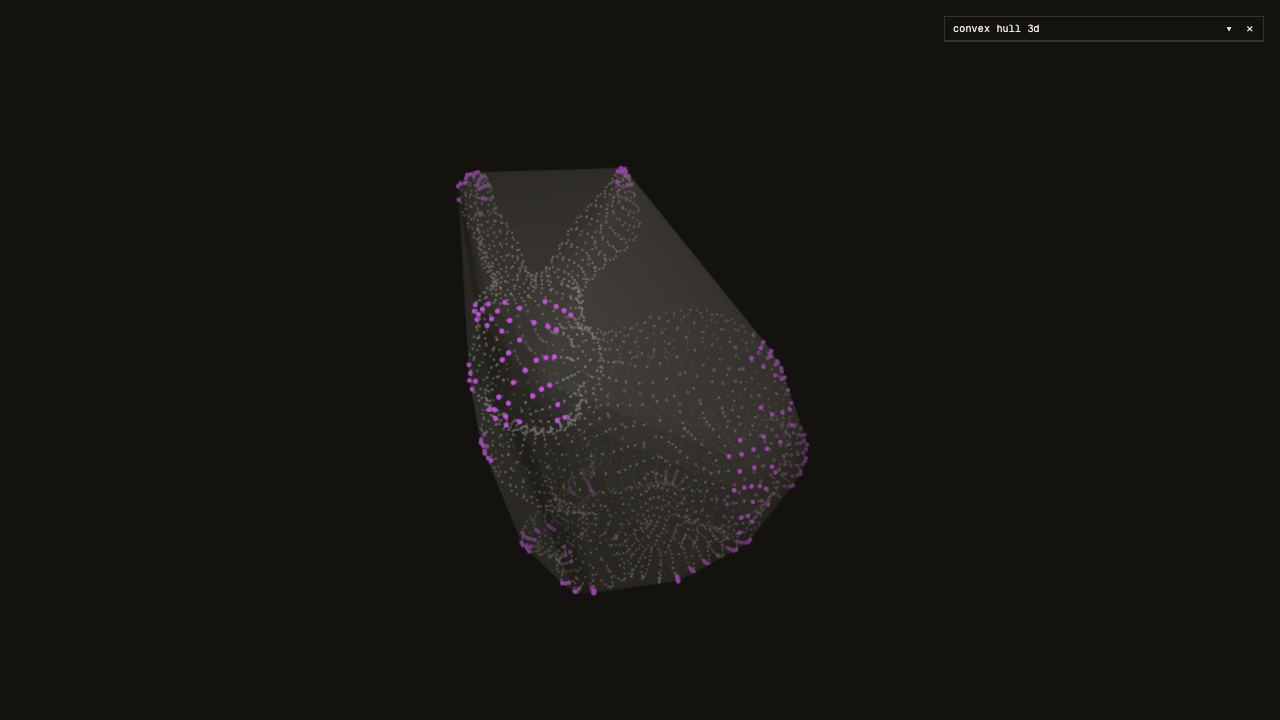
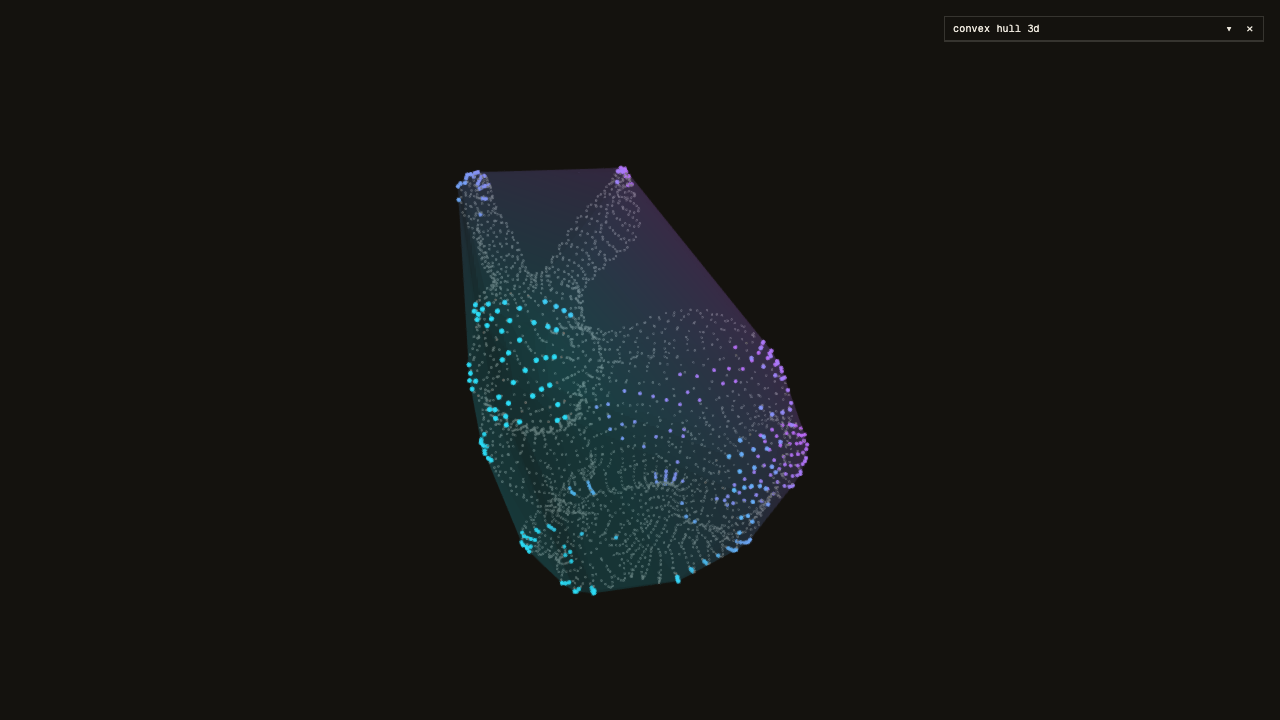
Restore convex hull color gradient

Changed region(s): [[0.3438, 0.2444, 0.6562, 0.825], [0.4688, 0.2139, 0.5, 0.3361]]

diff --git a/examples/src/example-convex-hull-3d.ts b/examples/src/example-convex-hull-3d.ts
@@ -4,7 +4,7 @@ import { mat4, quat, vec3 as v3 } from 'math';
 import { quickhull3 } from 'math/geometry';
 import { mulberry32 } from 'math/random';
 import { createPanel } from './common/dash';
-import { depthInk, grey, ink } from './common/ink';
+import { grey, ink } from './common/ink';
 import { createRenderer } from './common/renderer';
 import { clearColor, spectrum } from './common/theme';
 
@@ -159,6 +159,13 @@ const ACCENT = spectrum[0];
 
 let pointsMesh: g.Mesh | null = null;
 let hullMesh: g.Mesh | null = null;
+
+/** Spatial color gives the shell and its vertices the same depth cues. */
+function hullColor(position: g.Node<typeof d.vec3f>): g.Node<typeof d.vec3f> {
+    const phase = g.clamp(position.dot(g.vec3(0.35, 0.12, -0.2)).add(g.f32(0.5)), g.f32(0), g.f32(1));
+    return g.mix(ink(spectrum[6]), ink(ACCENT), phase);
+}
+
 function buildPoints(points: number[], hullSet: Set<number>): g.Mesh {
     const numPoints = points.length / 3;
     const instanceMatrices = new Float32Array(numPoints * 16);
@@ -189,8 +196,9 @@ function buildPoints(points: number[], hullSet: Set<number>): g.Mesh {
     const world = g.mul(instanceTransform, g.vec4(pos, g.f32(1)));
     const clip = g.mul(g.cameraProjectionMatrix, g.mul(g.cameraViewMatrix, world));
     const vHull = g.varying(instanceHullFlag, 'v_ishull');
+    const vWorld = g.varying(world.xyz, 'v_pworld');
 
-    const base = g.Var('base', depthInk(g.mix(grey(g.f32(0.55)), ink(ACCENT), vHull), world.xyz, 1.8));
+    const base = g.Var('base', g.mix(grey(g.f32(0.45)), hullColor(vWorld), vHull));
 
     const material = new g.Material({ vertex: clip, fragment: g.vec4(base, g.f32(1)) });
     const mesh = new g.Mesh(sphereGeometry, material);
@@ -210,11 +218,11 @@ function buildHull(points: number[], hullIndices: number[]): g.Mesh {
     // Face shading separates adjacent planes without drawing every triangulation edge.
     const normal = g.normalize(g.cross(g.dpdx(vWorld), g.dpdy(vWorld)));
     const diffuse = normal.dot(g.vec3(0.6, 1, 0.8).normalize()).abs();
-    const color = depthInk(grey(g.f32(0.18).add(diffuse.mul(g.f32(0.5)))), world.xyz, 1.8);
+    const color = hullColor(vWorld).mul(g.f32(0.55).add(diffuse.mul(g.f32(0.45))));
 
     const material = new g.Material({
         vertex: clip,
-        fragment: g.vec4(color, g.f32(0.35)),
+        fragment: g.vec4(color, g.f32(0.24)),
         transparent: true,
         cullMode: 'back',
         depthWrite: false,
